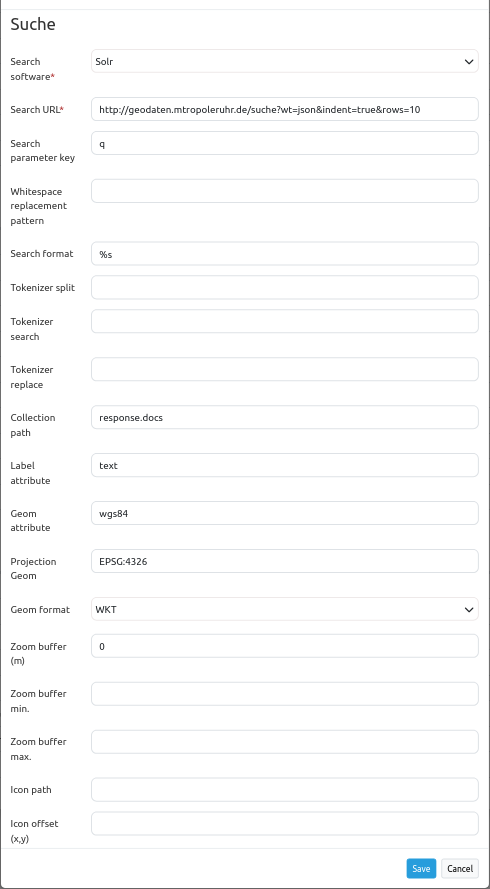
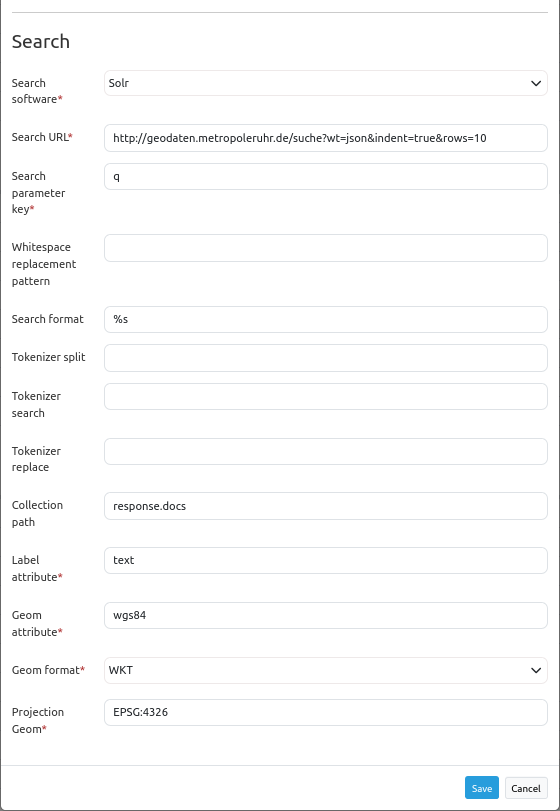
Doku changes, new Images for Search part

diff --git a/de/elements/search/routing.rst b/de/elements/search/routing.rst
@@ -47,23 +47,19 @@ Konfiguration
 * **Wegbeschreibung ausgeben:** Auswählen ob es eine Wegbeschreibung geben soll oder nicht (Standard: false).
 
 .. image:: ../../../figures/de/routing_configuration_search.png
-     :scale: 100
+     :scale: 87
 
 * **Suchsoftware:** Auswählen des Such-Dienstes (derzeit nur Solr).
-* **Such-URL:** Setzen der URL-Adresse für die Suchsoftware (Solr).
-* **Suchparameterschlüssel:** Setzen des Suchparameterschlüssels.
-* **Leerzeichenersetzung:** Setzen von Paramteren zum Ersetzung im Such-Therm.
-* **Suchformat:** Setzen des Such-Formats (Im diesem SimpleSearch Format Beispiel: %s).
-* **Tokenizer spaltet/sucht/ersetzt:** Setzen von RegexFormat-Teilungsmuster/-Suchmuster/-Ersetzungsparameter(Standard: false).
-* **Attributspfad:** Setzen des Attributspfads, der vom Abfrageergebnis extrahiert wird (Standard: response.docs).
-* **Attributname:** Attribut oder mehrere Attribute , die als Ergebnis angezeigt werden sollen.
-* **Attributname Geodaten:** Attributname der Geodaten (z.B. geom).
-* **Projektion Geodaten:** 
-* **Geodatenformat:** Geodatenformat, kann WKT oder GeoJSON sein (z.B. WKT).
-* **Zoompuffer (m):** 
-* **Zoompuffer min./max.:** 
-* **Symbol-Pfad:** 
-* **Versatz des Symbols (x,y):** Versatz x und y des Symbols (z.B. 0, 0).
+* **Query URL:** Setzen der URL-Adresse für die Suchsoftware (Solr).
+* **Query URL-Parameter:** Der Suchparameterschlüssel, der angehängt wird (z.B. q).
+* **Query Whitespace Ersetzung:** Setzen von Paramteren zum Ersetzung im Such-Therm.
+* **Query Key Format:** Setzen des Such-Formats (Im diesem SimpleSearch Format Beispiel: %s).
+* **Tokenizer Split/Such/Ersetzungs-Regex:** Setzen von RegexFormat-Teilungsmuster/-Suchmuster/-Ersetzungsparameter(Standard: false).
+* **Pfas zu den Ergebnissen:** Setzen des Pfads, der vom Abfrageergebnis extrahiert wird (Standard: response.docs).
+* **Attribut für Beschriftung:** Attribut oder mehrere Attribute , die als Ergebnis angezeigt werden sollen.
+* **Attributname  für Geometrie:** Attributname der Geometrie (z.B. wgs84).
+* **Geometrieformat:** Geometrieformat, kann WKT oder GeoJSON sein (z.B. WKT).
+* **Quell-SRS:** EPSG-Code des primären Koordinatenbezugsystems (z.B. EPSG:4326).
 
 
 YAML-Definition

diff --git a/en/elements/search/routing.rst b/en/elements/search/routing.rst
@@ -47,7 +47,7 @@ Configuration
 * **Route description:** Select whether there should be a route description or not (default: no).
 
 .. image:: ../../../figures/routing_configuration_search.png
-     :scale: 100
+     :scale: 87
 
 * **Search software:** Select the search service (currently only Solr).
 * **Search URL:** Set the URL address for the search software (Solr).
@@ -57,13 +57,9 @@ Configuration
 * **Tokenizer split/search/replace:** Set RegexFormat-split pattern/search pattern/replacement parameter (default: false).
 * **Collection path:** Set the attribute path that is extracted from the query result (default: response.docs).
 * **Label attribute:** Name of the attribute's to show as result.
-* **Geom attribute:** Name of the geometry data attribute (e.g. geom).
-* **Projection Geom:**
+* **Geom attribute:** Name of the geometry attribute (e.g. wgs84).
 * **Geom format:** Geometry data format, can be WKT or GeoJSON (e.g. WKT).
-* **Zoom buffer (m):**
-* **Zoom buffer min./max.:**
-* **Icon pfad:**
-* **Icon offset (x,y):** Offset x and y for the icon (e.g. 0, 0).
+* **Projection Geom:** EPSG code of the spatial reference system(e.g. EPSG:4326).
 
 
 
